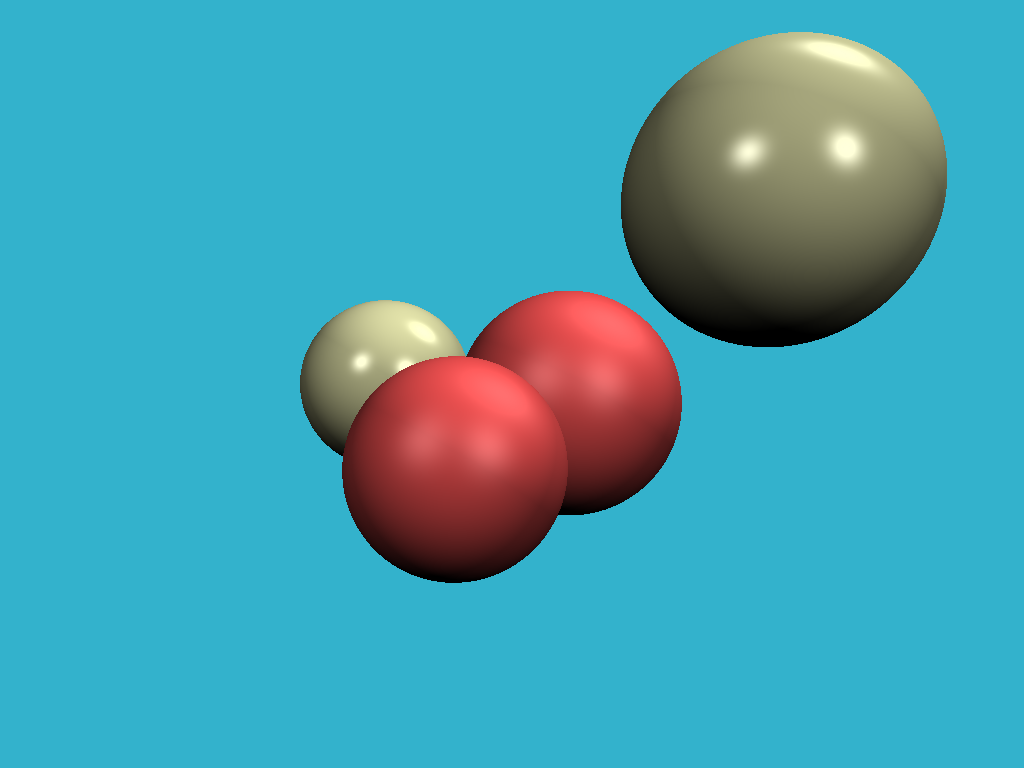
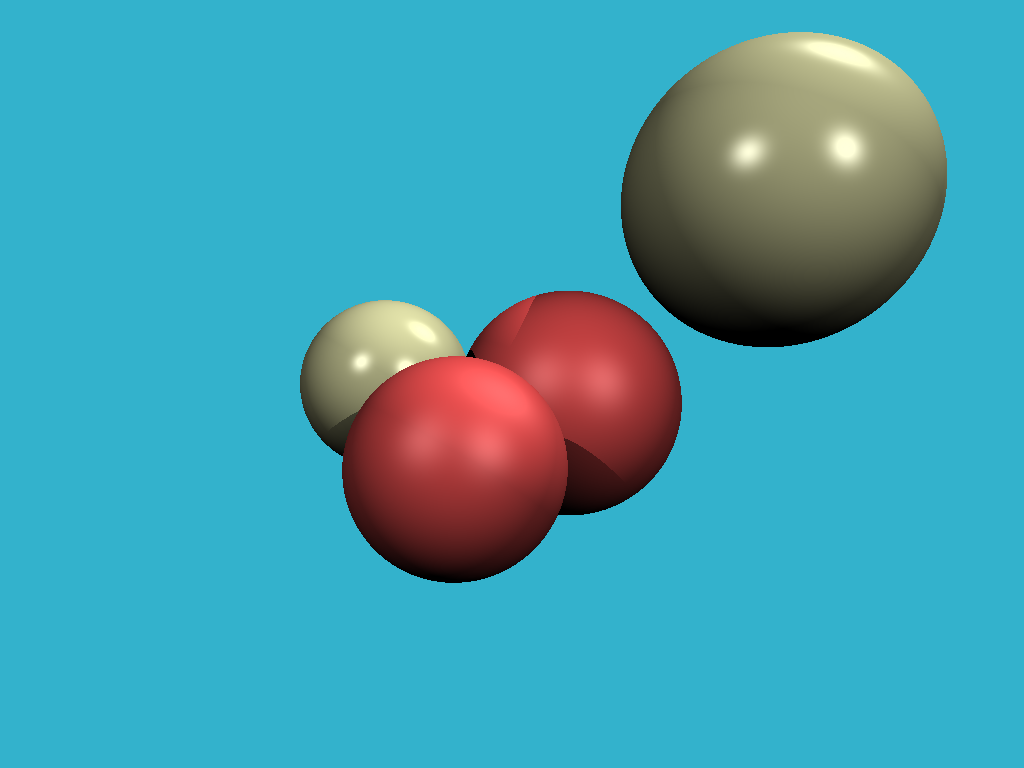
Add shadows, step 6

Changed region(s): [[0.5, 0.375, 0.6875, 0.5625], [0.5312, 0.5625, 0.5938, 0.6562], [0.3125, 0.5312, 0.3438, 0.5625]]

diff --git a/goray/render.go b/goray/render.go
@@ -43,6 +43,25 @@ func castRay(orig, dir Vec3f, spheres []Sphere, lights []light) Vec3f {
 	var diffuseLightIntensity, specularLightIntensity float64
 	for _, l := range lights {
 		lightDir := l.position.subtract(point).normalize()
+		lightDistance := l.position.subtract(point).norm()
+
+		Nscaled := N.mult(1e-3)
+		var shadowOrig Vec3f
+		if lightDir.dot(N) < 0 {
+			shadowOrig = point.subtract(Nscaled)
+		} else {
+			shadowOrig = point.add(Nscaled)
+		}
+
+		shadowIntersect, shadMaterial, shadowPoint, shadowN := sceneIntersect(shadowOrig, lightDir, spheres)
+		if shadowIntersect && shadowPoint.subtract(shadowOrig).norm() < lightDistance {
+			continue
+		}
+
+		_ = shadMaterial
+		_ = shadowPoint
+		_ = shadowN
+
 		diffuseLightIntensity += l.intensity * math.Max(0., lightDir.dot(N))
 		reflectedLight := lightDir.mult(-1.).reflect(N).mult(-1.).dot(dir)
 		intensity := math.Pow(math.Max(0., reflectedLight), material.specularExponent)
